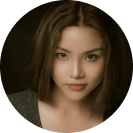
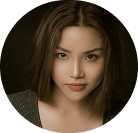
feat: style headshot

diff --git a/index.html b/index.html
@@ -32,21 +32,125 @@
   <body>
     <main>
       <figure class="cv__background--container">
-        <img src="images/cv-background.jpg" alt="" class="cv__background">
+        <img src="images/cv-background.jpg" alt="" class="cv__background" />
       </figure>
-      <!-- LEFT COLUMN -->
-      <div class="cv__left">
 
-      </div>
+      <!-- LEFT COLUMN -->
+
+      <aside class="cv__left">
+        <!-- HEADSHOT -->
+
+        <div class="candidate__headshot">
+          <figure class="headshot__image--container">
+            <img
+              src="images/profile-image.jpg"
+              alt="candidate profile image"
+              class="headshot__image"
+            />
+          </figure>
+        </div>
+
+        <!-- CONTACT -->
+
+        <div class="contact">
+          <h2 class="section__title">Contact</h2>
+          <div class="contact__rows">
+            <div class="contact__row">
+              <figure class="contact__icon--wrapper">
+                <img
+                  src="images/phone-icon.svg"
+                  alt="phone icon"
+                  class="contact__icon"
+                />
+              </figure>
+              <p class="contact__text"><a href="tel:15557778802" class="phone-link">555.777.8802</a></p>
+            </div>
+            <div class="contact__row">
+              <figure class="contact__icon--wrapper">
+                <img
+                  src="images/email-icon.svg"
+                  alt="email icon"
+                  class="contact__icon"
+                />
+              </figure>
+              <p class="contact__text"><a href="mailto:kstrong@gmail.com" class="email-link">kstrong@gmail.com</a></p>
+            </div>
+            <div class="contact__row">
+              <figure class="contact__icon--wrapper">
+                <img
+                  src="images/linkedin-icon.svg"
+                  alt="linked in icon"
+                  class="contact__icon"
+                />
+              </figure>
+              <p class="contact__text"><a href="https://linkedin.com/ln/kstrong" class="web-link">LinkedIn</a></p>
+            </div>
+            <div class="contact__row">
+              <figure class="contact__icon--wrapper">
+                <img
+                  src="images/location-icon.svg"
+                  alt="location icon"
+                  class="contact__icon"
+                />
+              </figure>
+              <p class="contact__text">Texas, U.S.</p>
+            </div>
+          </div>
+        </div>
+
+        <!-- EDUCATION -->
+
+        <div class="education">
+          <h2 class="section__title">
+            Education
+          </h2>
+          <div class="institution">
+            <p class="institition__title">University of Ruhuna</p>
+            <p class="institution__location">Jahar, Beirut</p>
+            <p class="degree">Bachelor of Computer Science</p>
+            <p class="timeline">Feb 2020 - Jan 2024</p>
+          </div>
+          <div class="institution">
+            <p class="institition__title">Hazara Technical College</p>
+            <p class="institution__location">London, England</p>
+            <p class="degree">HSC Computer Science</p>
+            <p class="timeline">June 2019 - Jan 2020</p>
+          </div>
+        </div>
+
+        <!-- SKILLS -->
+
+        <div class="skills">
+          <h2 class="section__title">
+            Skills
+          </h2>
+          <div class="skill__list">
+            <p class="skill">WordPress Design</p>
+            <p class="skill">Digital Marketing</p>
+            <p class="skill">Figma</p>
+            <p class="skill">SEO & Content Optimization</p>
+            <p class="skill">Responsive Web design</p>
+            <p class="skill">WooCommerce</p>
+          </div>
+        </div>
+      </aside>
 
       <!-- RIGHT COLUMN -->
+
       <div class="cv__right">
+        <!-- HEADER -->
+
         <header class="cv__header">
           <h1 class="candidate__name">
             Kennedy <b class="candidate__name--bold">Strong</b>
           </h1>
           <span class="candidate__title">Developer &amp; Designer</span>
-          <p class="candidate__bio">I&apos;m a Full Stack Software Engineer specializing in FinTech, Payments, and enterprise Card Management Systems, with 3+ years of hands-on experience at Epic Lanka building and supporting production-grade banking platforms.</p>
+          <p class="candidate__bio">
+            I&apos;m a Full Stack Software Engineer specializing in FinTech,
+            Payments, and enterprise Card Management Systems, with 3+ years of
+            hands-on experience at Epic Lanka building and supporting
+            production-grade banking platforms.
+          </p>
         </header>
       </div>
     </main>

diff --git a/css/styles.css b/css/styles.css
@@ -37,6 +37,7 @@ main {
   height: 1200px;
   box-shadow: 10px 10px 10px rgba(0, 0, 0, 0.5);
   padding: 32px 56px;
+  z-index: 1;
 }
 
 .cv__background--container {
@@ -45,6 +46,7 @@ main {
   left: 0;
   width: 100%;
   height: 100%;
+  z-index: 2;
 }
 
 .cv__background {
@@ -54,7 +56,13 @@ main {
 }
 
 .cv__left {
-  width: 25%;
+  width: 30%;
+  z-index: 3;
+  padding: 32px 24px 32px 0;
+  display: flex;
+  flex-direction: column;
+  align-items: center;
+  gap: 40px;
 }
 
 .cv__right {
@@ -62,6 +70,7 @@ main {
   width: 60%;
   display: flex;
   flex-direction: column;
+  z-index: 3;
 }
 
 .cv__right::before {
@@ -121,6 +130,26 @@ HEADER
   width: 400px;
   text-wrap: pretty;
   margin-bottom: 16px;
+}
+
+/* 
+
+HEADSHOT
+
+*/
+
+.candidate__headshot {
+  width: 100%;
+}
+
+.headshot__image--container {
+  width: 90%;
+}
+
+.headshot__image {
+  width: 100%;
+  border-radius: 100%;
+  box-shadow: -16px -16px 40px #EB531C;
 }
 
 /* 

diff --git a/SCOPE.md b/SCOPE.md
@@ -53,8 +53,8 @@
   - [x] Code head
   - [ ] Code body
     - [x] Page background
-    - [ ] header
-    - [ ] name section
+    - [x] header
+    - [x] name section
     - [ ] contact & title section
     - [ ] skills section
     - [ ] education section
